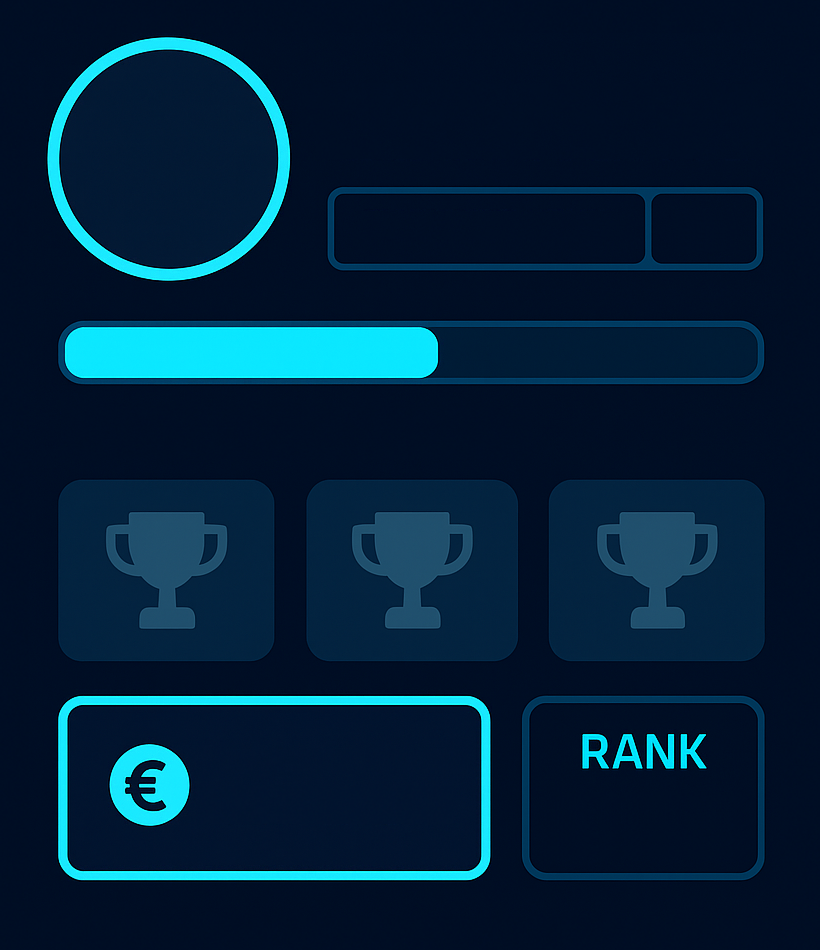
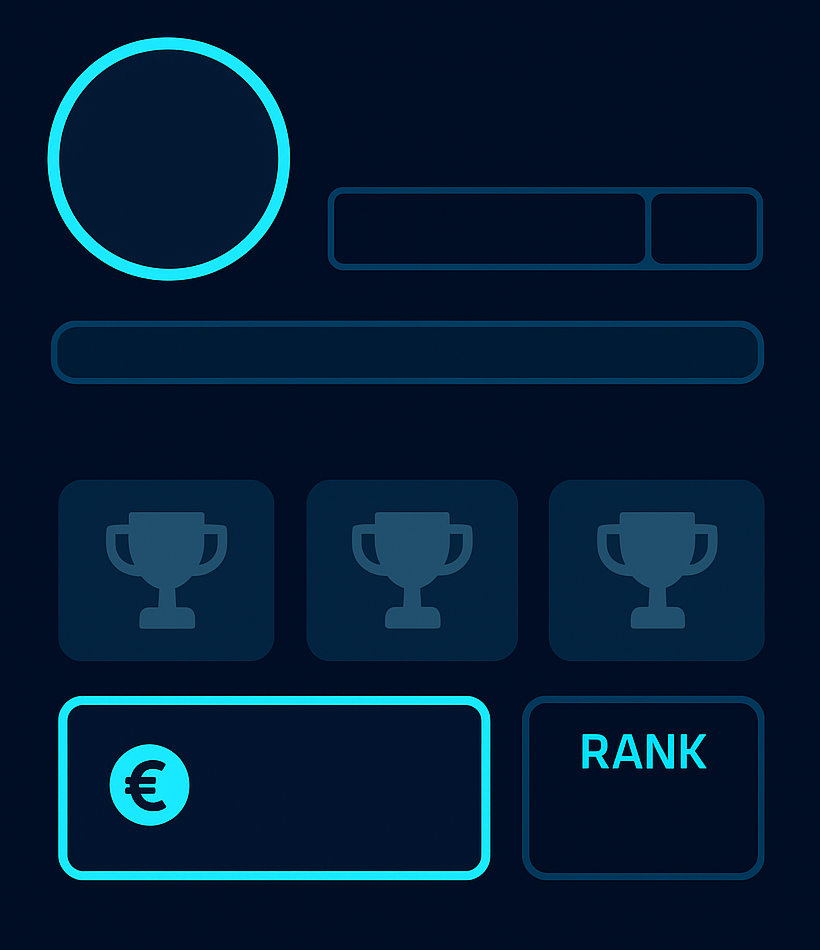
Posicionamiento de objetos

Changed region(s): [[0.061, 0.3358, 0.5488, 0.3968]]

diff --git a/modules/user/perfil.py b/modules/user/perfil.py
@@ -236,9 +236,9 @@ class Perfil(commands.Cog):
         level_text = f"{level}"
         bbox = draw.textbbox((0, 0), level_text, font=font_large)
         text_width = bbox[2] - bbox[0]
-        level_x = (width - text_width) -95
+        level_x = (width - text_width) -93
 
-        draw.text((level_x, info_y + 110), level_text, font=font_large, fill=cyan_bright)
+        draw.text((level_x, info_y + 112), level_text, font=font_large, fill=cyan_bright)
         
         # === UNA SOLA BARRA DE PROGRESO ===
         
@@ -247,7 +247,7 @@ class Perfil(commands.Cog):
         # Barra de progreso de XP
         progress = current_xp / next_level_xp if next_level_xp > 0 else 1.0
         
-        bar_width = width - 100
+        bar_width = width + 100
         bar_height = 35
         bar_x = 50
         
